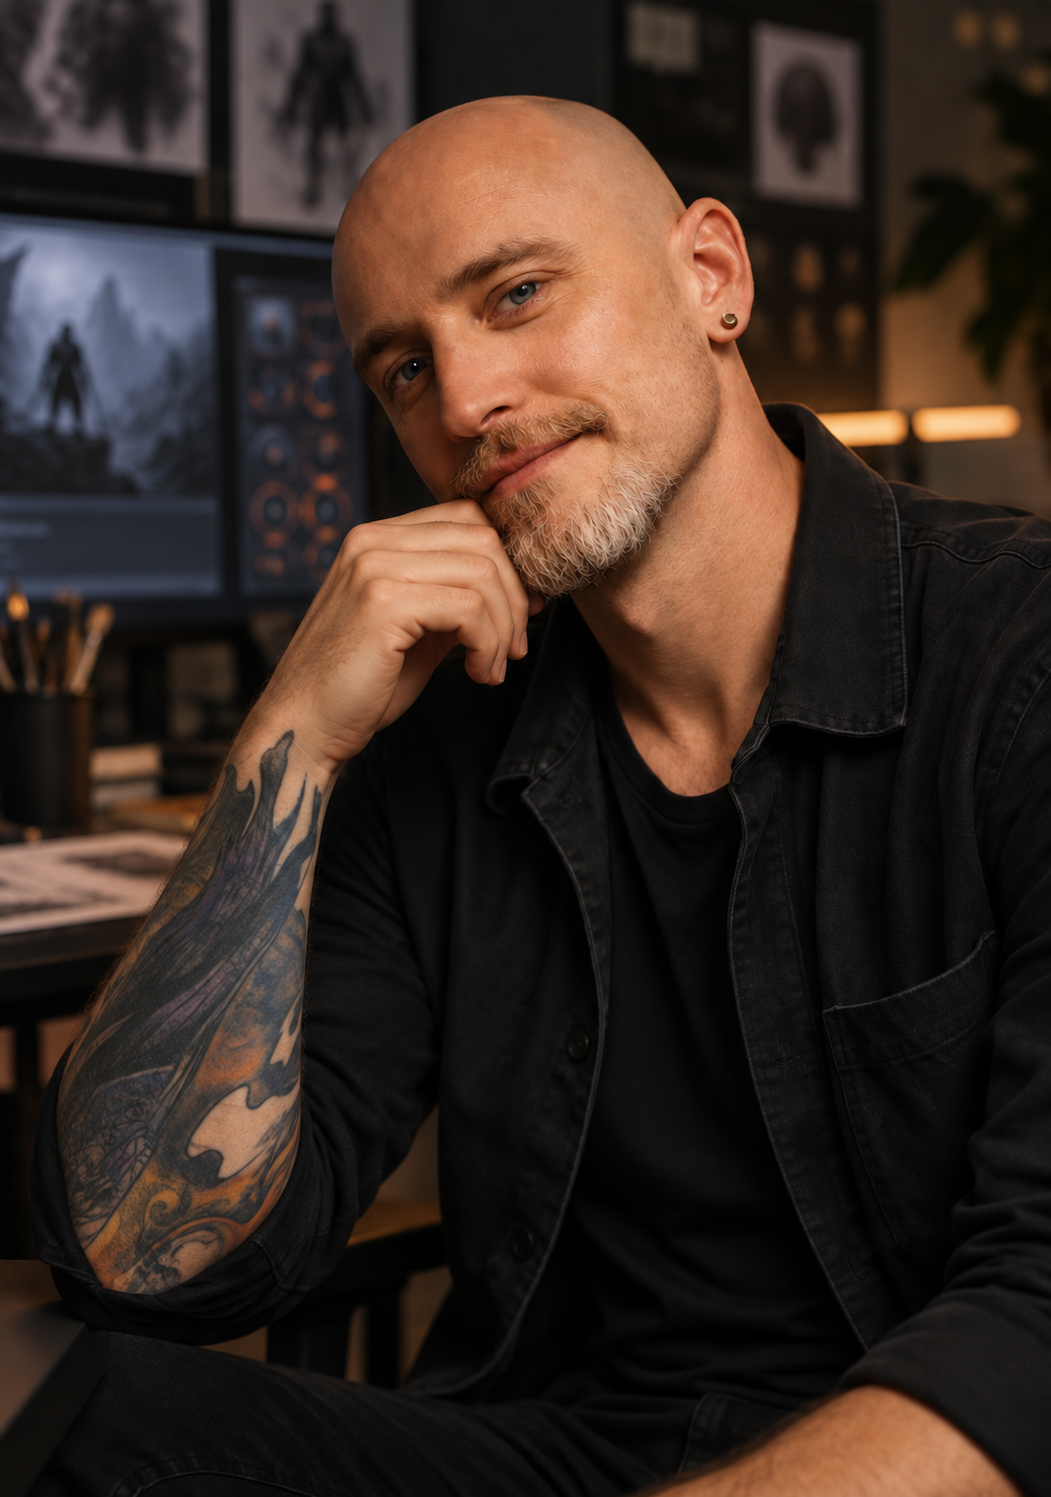
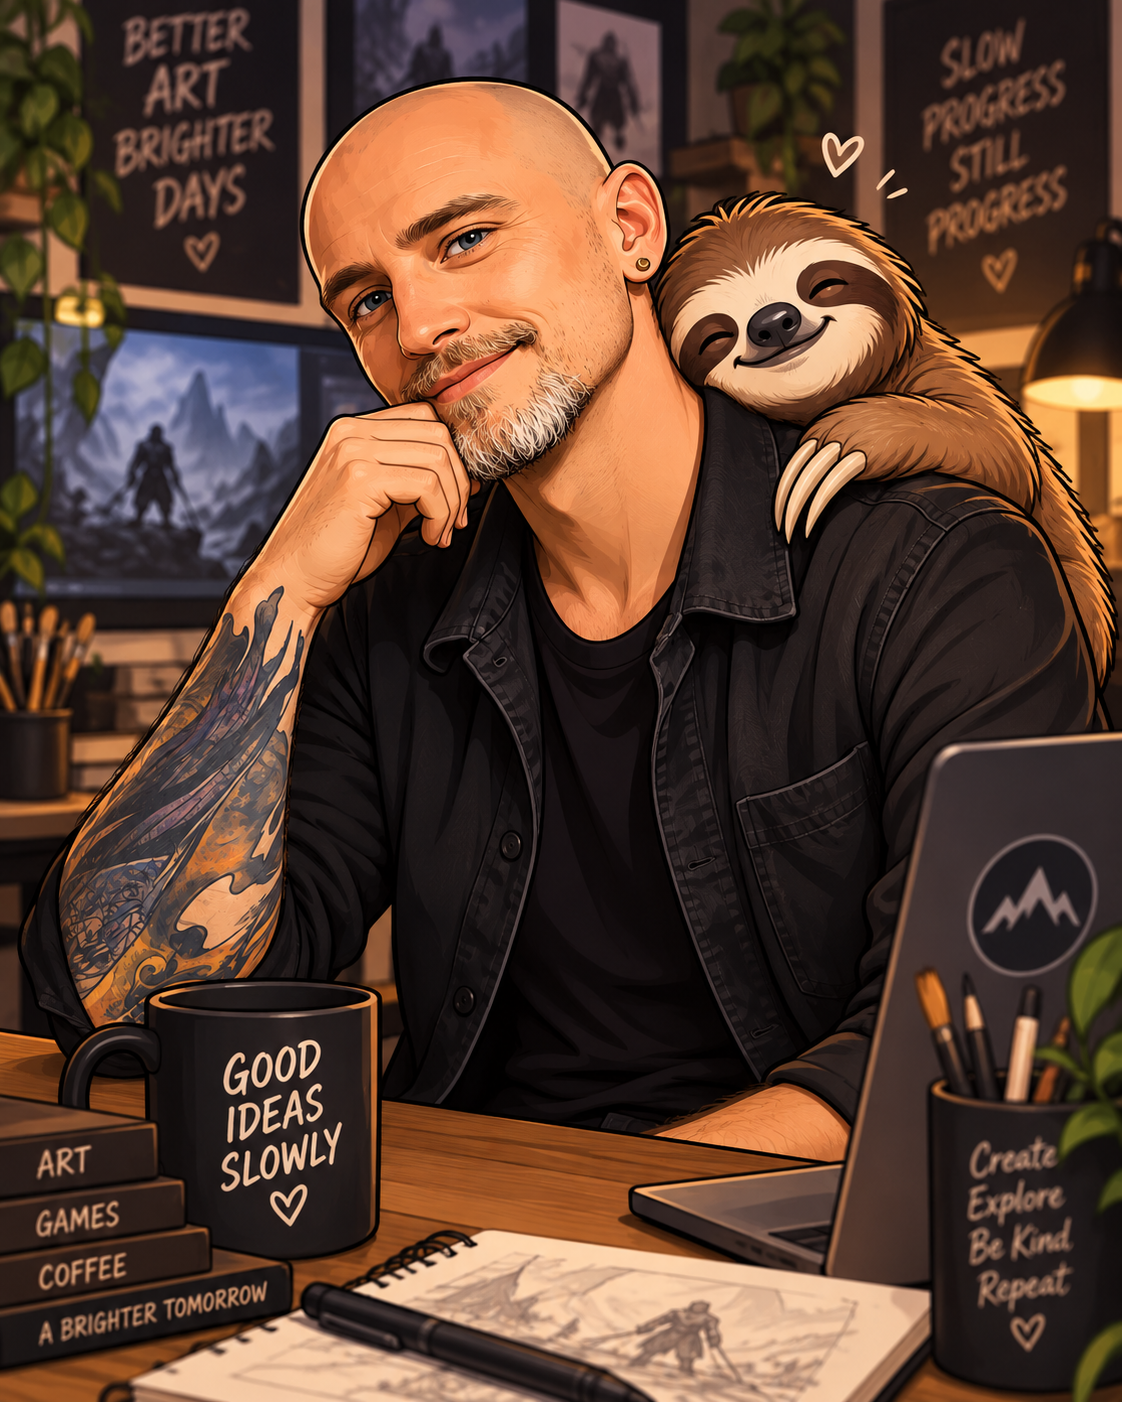
Replace homepage portrait

diff --git a/index.html b/index.html
@@ -43,7 +43,7 @@
       <div class="portrait-panel">
         <div class="portrait-label"><span>THE PERSON BEHIND THE PIXELS</span><span>01 / RC</span></div>
         <span class="portrait-star" aria-hidden="true">✳</span>
-        <img src="remi-portrait.png" alt="Remi Couture" width="1051" height="1497" fetchpriority="high">
+        <img src="remi-portrait.png" alt="Remi Couture" width="1122" height="1402" fetchpriority="high">
         <div class="portrait-caption"><span>Thoughtful by nature.<br><strong>Hands-on by choice.</strong></span><span class="portrait-note">Design ↗<br>Build ↗<br>Play ↗</span></div>
       </div>
     </header>
